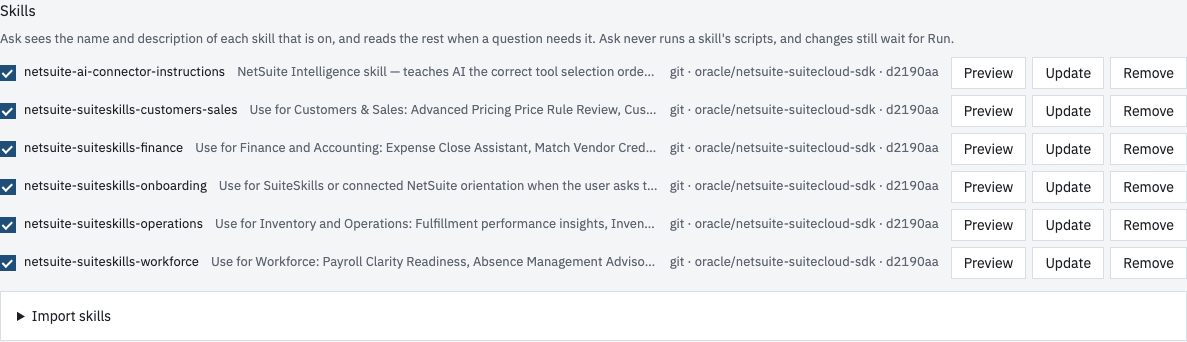
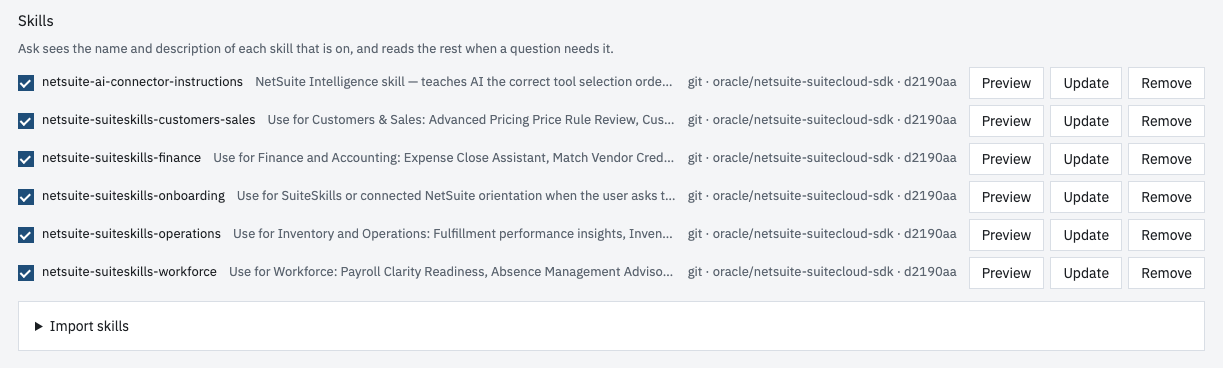
Cut reassurance copy and retake the Skills screenshot
README and Skills screen lines now say what happens instead of what
doesn't. The Limits lines read cleanly aloud. The Skills screenshot has
even padding on every side.

diff --git a/src/skills.tsx b/src/skills.tsx
@@ -236,7 +236,7 @@ export function SkillsSection({ onMessage, onError }: { onMessage: (text: string
   return (
     <section className="section" aria-labelledby="skills-title">
       <h2 id="skills-title">Skills</h2>
-      <p className="status">Ask sees the name and description of each skill that is on, and reads the rest when a question needs it. Ask never runs a skill's scripts, and changes still wait for Run.</p>
+      <p className="status">Ask sees the name and description of each skill that is on, and reads the rest when a question needs it.</p>
       {data && data.shortened > 0 && <p className="status">Ask sees shortened descriptions for {data.shortened} skills.</p>}
       {!data && <SkeletonTable rows={3} cols={3} />}
       {data && rows.length === 0 && (
@@ -373,7 +373,7 @@ export function SkillsSection({ onMessage, onError }: { onMessage: (text: string
                         checked={replace.includes(skill.name)}
                         onChange={(event) => setReplace((current) => (event.target.checked ? [...current, skill.name] : current.filter((name) => name !== skill.name)))}
                       />
-                      Replace the saved {skill.name}. Unticked, the saved copy stays.
+                      Replace the saved {skill.name}
                     </label>
                   )}
                   {skill.warnings.map((warning) => (

diff --git a/README.md b/README.md
@@ -27,9 +27,9 @@
 
 ![Ask reads Oracle's finance skill and vendor-spend runbook, then answers with a table of the top 5 vendors](docs/ask-skill.png)
 
-- Ask suggests changes. Nothing saves until you click Run.
+- Ask proposes changes. You run each one.
 - Skills are `SKILL.md` folders, plugins, zips, `AGENTS.md` files or Git URLs. One click imports Oracle's NetSuite skills.
-- Ask reads skills. It never runs their scripts.
+- Ask reads skill scripts as text.
 
 ![Settings lists Oracle's six imported NetSuite skills, each with Preview, Update and Remove](docs/skills.png)
 
@@ -65,17 +65,17 @@ flowchart LR
   S -- API key --> M[AI model]
 ```
 
-Tokens, keys, models, queries and skills stay on the local server, in `data/`.
+The local server keeps tokens, keys, models, queries and skills in `data/`.
 
 ## Limits
 
 - One person, one machine
-- PO and bill approval uses a NetSuite workflow that applies to every user
+- PO and bill approvals run through a NetSuite workflow that covers every user
 - No deletes. Close lines instead.
 - CSV export stops at 5,000 rows
-- Skills: 200 max, 60 MB per import, public Git only
-- Gemma loads skills only when you name them
-- Not tested on phones
+- Up to 200 skills, 60 MB per import, public Git repos only
+- Gemma needs the skill's name in your question
+- Untested on mobile screen sizes
 
 ## Tests
 
